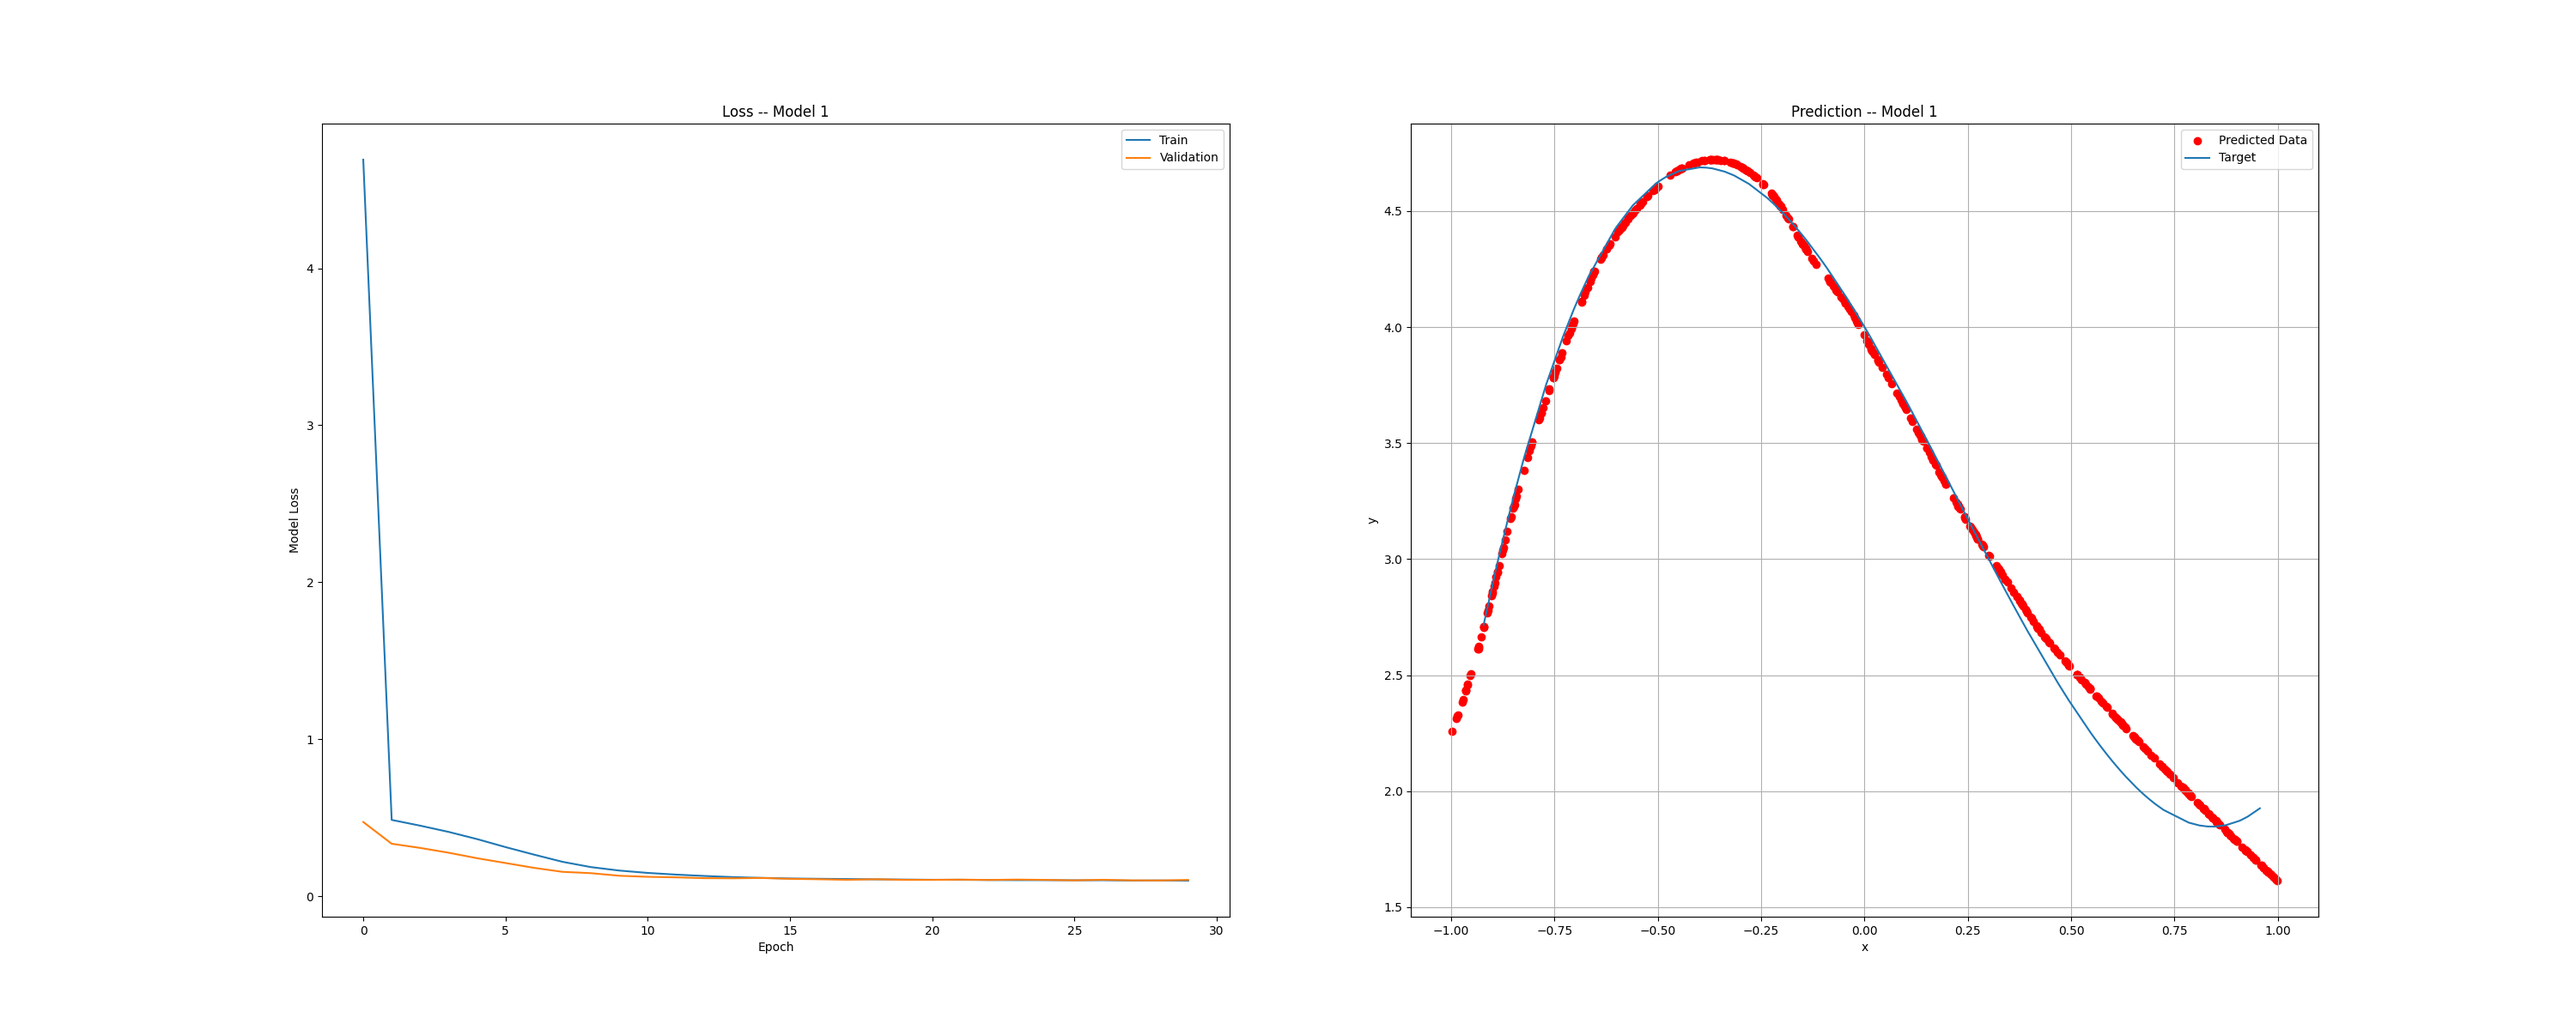
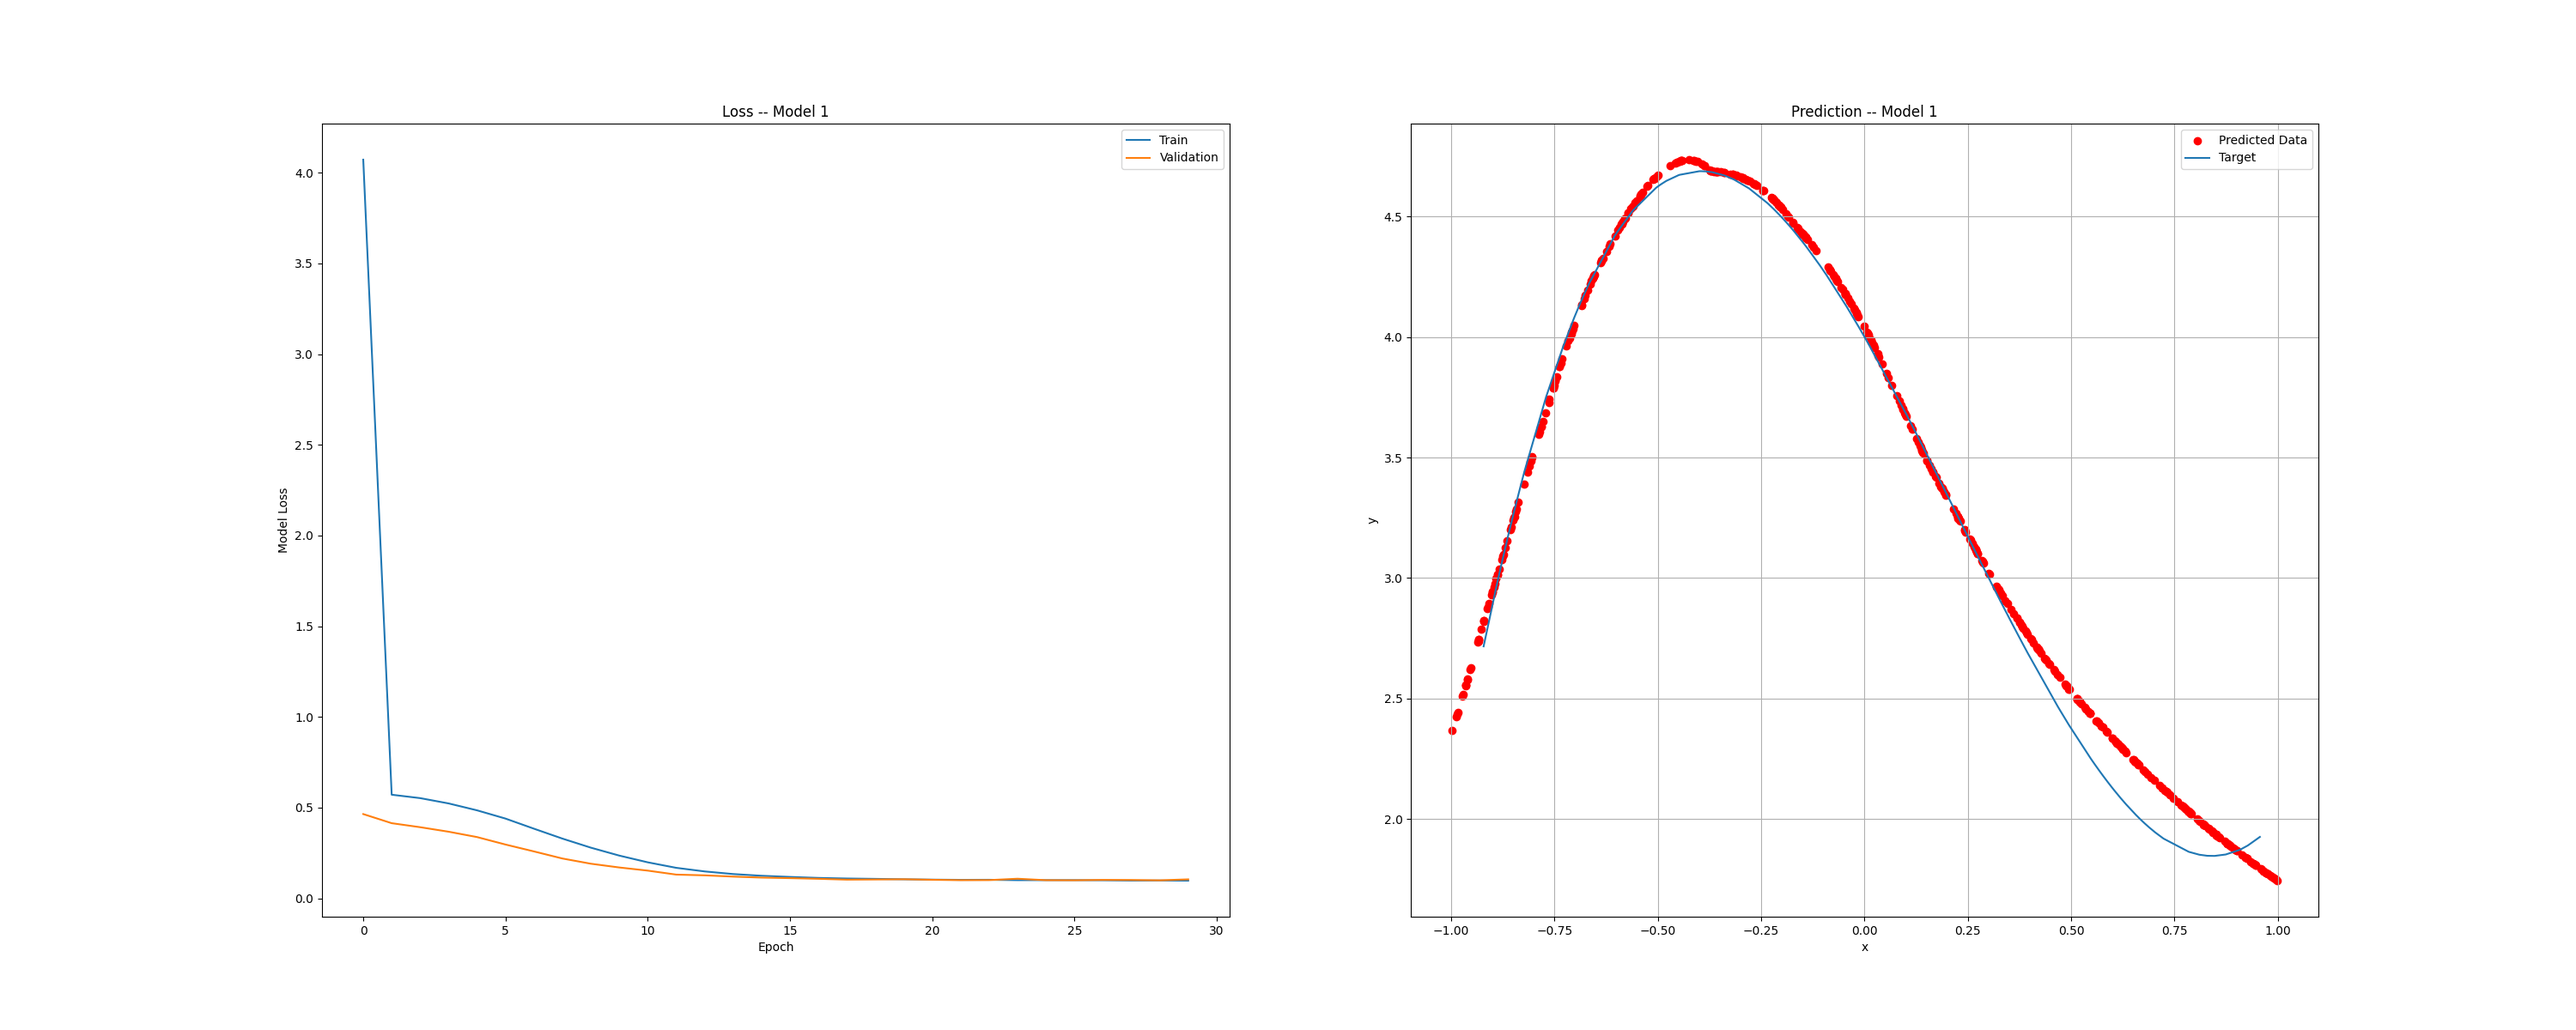
To fix the last plots

diff --git a/Exercise1/2D_fit.py b/Exercise1/2D_fit.py
@@ -1,0 +1,155 @@
+import numpy as np
+import matplotlib.pyplot as plt
+import torch
+from torch.utils.data import DataLoader, TensorDataset
+import torch.nn as nn
+import torch.optim as optim
+
+SIGMA = 0.5
+EPOCHS = 50
+HIDDEN_SIZES = [30, 20, 10]
+
+"""
+TWO-DIMENSIONAL FIT
+"""
+
+
+def sin(x, y):
+    return np.sin(x ** 2 + y ** 2)
+
+
+class ExtendedNN(nn.Module):
+    def __init__(self, input_size=2, hidden_sizes=None, output_size=1):
+        super(ExtendedNN, self).__init__()
+        if hidden_sizes is None:
+            hidden_sizes = HIDDEN_SIZES
+        self.relu = nn.ReLU()  # Define RELU as a layer
+        self.fc1 = nn.Linear(input_size, hidden_sizes[0])
+        self.fc2 = nn.Linear(hidden_sizes[0], hidden_sizes[1])
+        self.fc3 = nn.Linear(hidden_sizes[1], hidden_sizes[2])
+        self.output = nn.Linear(hidden_sizes[2], output_size)
+
+    def forward(self, x):
+        x = self.relu(self.fc1(x))
+        x = self.relu(self.fc2(x))
+        x = self.relu(self.fc3(x))
+        x = self.output(x)
+        return x
+
+
+# Training loop
+def train_model(model, train_loader, valid_loader, criterion, optimizer, epochs):
+    train_losses = [0 for _ in range(epochs)]
+    valid_losses = [0 for _ in range(epochs)]
+    for epoch in range(epochs):
+        model.train()  # Set the model to training mode
+        running_loss = 0.0
+
+        # Training phase
+        for inputs, targets in train_loader:
+            optimizer.zero_grad()  # Zero out gradients from the previous step
+            outputs = model(inputs)  # Forward pass
+            loss = criterion(outputs, targets)  # Compute loss
+            loss.backward()  # Backward pass
+            optimizer.step()  # Update weights
+
+            running_loss += loss.item() * inputs.size(0)  # Accumulate total loss for this batch
+
+        epoch_loss = running_loss / len(train_loader.dataset)  # Average loss for the epoch
+        train_losses[epoch] = epoch_loss
+        print(f'Epoch {epoch + 1}/{epochs}, Training Loss: {epoch_loss:.4f}')
+
+        # Validation phase
+        model.eval()  # Set the model to evaluation mode
+        val_loss = 0.0
+        with torch.no_grad():  # No need to compute gradients for validation
+            for val_inputs, val_targets in valid_loader:
+                val_outputs = model(val_inputs)
+                val_loss += criterion(val_outputs, val_targets).item() * val_inputs.size(0)
+
+        val_loss = val_loss / len(valid_loader.dataset)  # Average validation loss
+        valid_losses[epoch] = val_loss
+        print(f'Epoch {epoch + 1}/{epochs}, Validation Loss: {val_loss:.4f}')
+
+    return train_losses, valid_losses
+
+
+def main():
+    np.random.seed(0)
+    x_train = np.random.uniform(-1.5, 1.5, size=(10000, 2))
+    x_valid = np.random.uniform(-1.5, 1.5, size=(1000, 2))
+    x_valid.sort()
+    y_target = sin(x_valid[:, 0], x_valid[:, 1])
+    y_train = np.random.normal(sin(x_train[:, 0], x_train[:, 1]), SIGMA)
+    y_valid = np.random.normal(sin(x_valid[:, 0], x_valid[:, 1]), SIGMA)
+
+    test_points = np.random.uniform(-1.5, 1.5, size=(2, 50))
+    test_points.sort()
+    x, y = np.meshgrid(test_points[0], test_points[1])
+    z_target = sin(x, y)
+    z_validation = np.random.normal(sin(x, y), SIGMA)
+
+    fig = plt.figure(figsize=(18, 13))
+    ax = plt.axes(projection='3d')
+    ax.scatter(x, y, z_validation, color='green', linewidth=0.1)
+    ax.contour3D(x, y, z_target, 30, cmap='plasma')
+    ax.set_xlabel('X')
+    ax.set_ylabel('Y')
+    ax.set_zlabel('Z')
+    ax.set_title('Training data', fontsize=20)
+    plt.grid(True)
+    plt.savefig('2_dimensional_fit.png')
+    plt.show()
+
+    x_train_tensor = torch.tensor(x_train, dtype=torch.float32)
+    y_train_tensor = torch.tensor(y_train, dtype=torch.float32).unsqueeze(1)
+    x_valid_tensor = torch.tensor(x_valid, dtype=torch.float32)
+    y_valid_tensor = torch.tensor(y_valid, dtype=torch.float32).unsqueeze(1)
+    train_dataset = TensorDataset(x_train_tensor, y_train_tensor)
+    valid_dataset = TensorDataset(x_valid_tensor, y_valid_tensor)
+    train_loader = DataLoader(train_dataset, batch_size=32, shuffle=True)
+    valid_loader = DataLoader(valid_dataset, batch_size=32, shuffle=False)
+    model = ExtendedNN()
+    criterion = nn.MSELoss()
+    optimizer = optim.SGD(model.parameters(), lr=0.01)
+    train_losses, valid_losses = train_model(model, train_loader, valid_loader, criterion, optimizer, epochs=EPOCHS)
+
+    fig, [ax0, ax1] = plt.subplots(1, 2, figsize=(30, 12))
+    ax0.plot(train_losses, label='Train Loss')
+    ax0.plot(valid_losses, label='Validation Loss')
+    ax0.set_ylabel('Model Loss')
+    ax0.set_xlabel('Epoch')
+    ax0.legend(['Train', 'Validation'], loc='best')
+    ax0.set_title('Loss -- Model 1')
+
+    x_predicted = np.random.uniform(-1.5, 1.5, size=(1000, 2))  # Same as in TensorFlow
+    x_predicted_tensor = torch.tensor(x_predicted, dtype=torch.float32)
+
+    # Set the model to evaluation mode before making predictions
+    model.eval()
+    with torch.no_grad():
+        y_predicted_tensor = model(x_predicted_tensor)  # Forward pass to make predictions
+
+    y_predicted = y_predicted_tensor.squeeze().numpy()  # Convert predictions to NumPy array for plotting
+
+    test_points = np.random.uniform(-1.5, 1.5, size=(2, 50))
+    test_points.sort()
+    x, y = np.meshgrid(test_points[0], test_points[1])
+    z_target = sin(x, y)
+
+    fig = plt.figure(figsize=(18, 13))
+    ax = plt.axes(projection='3d')
+    ax.scatter(x_predicted[:, 0], x_predicted[:, 1], y_predicted, color='green', linewidth=0.1, label='predicted')
+    ax.contour3D(x, y, z_target, 30, cmap='plasma')
+    ax.set_xlabel('X')
+    ax.set_ylabel('Y')
+    ax.set_zlabel('Z')
+    plt.legend()
+    ax.set_title('Predicted data', fontsize=20)
+    plt.grid(True)
+    plt.savefig('prediction_2D.png')
+    plt.show()
+
+
+if __name__ == '__main__':
+    main()
